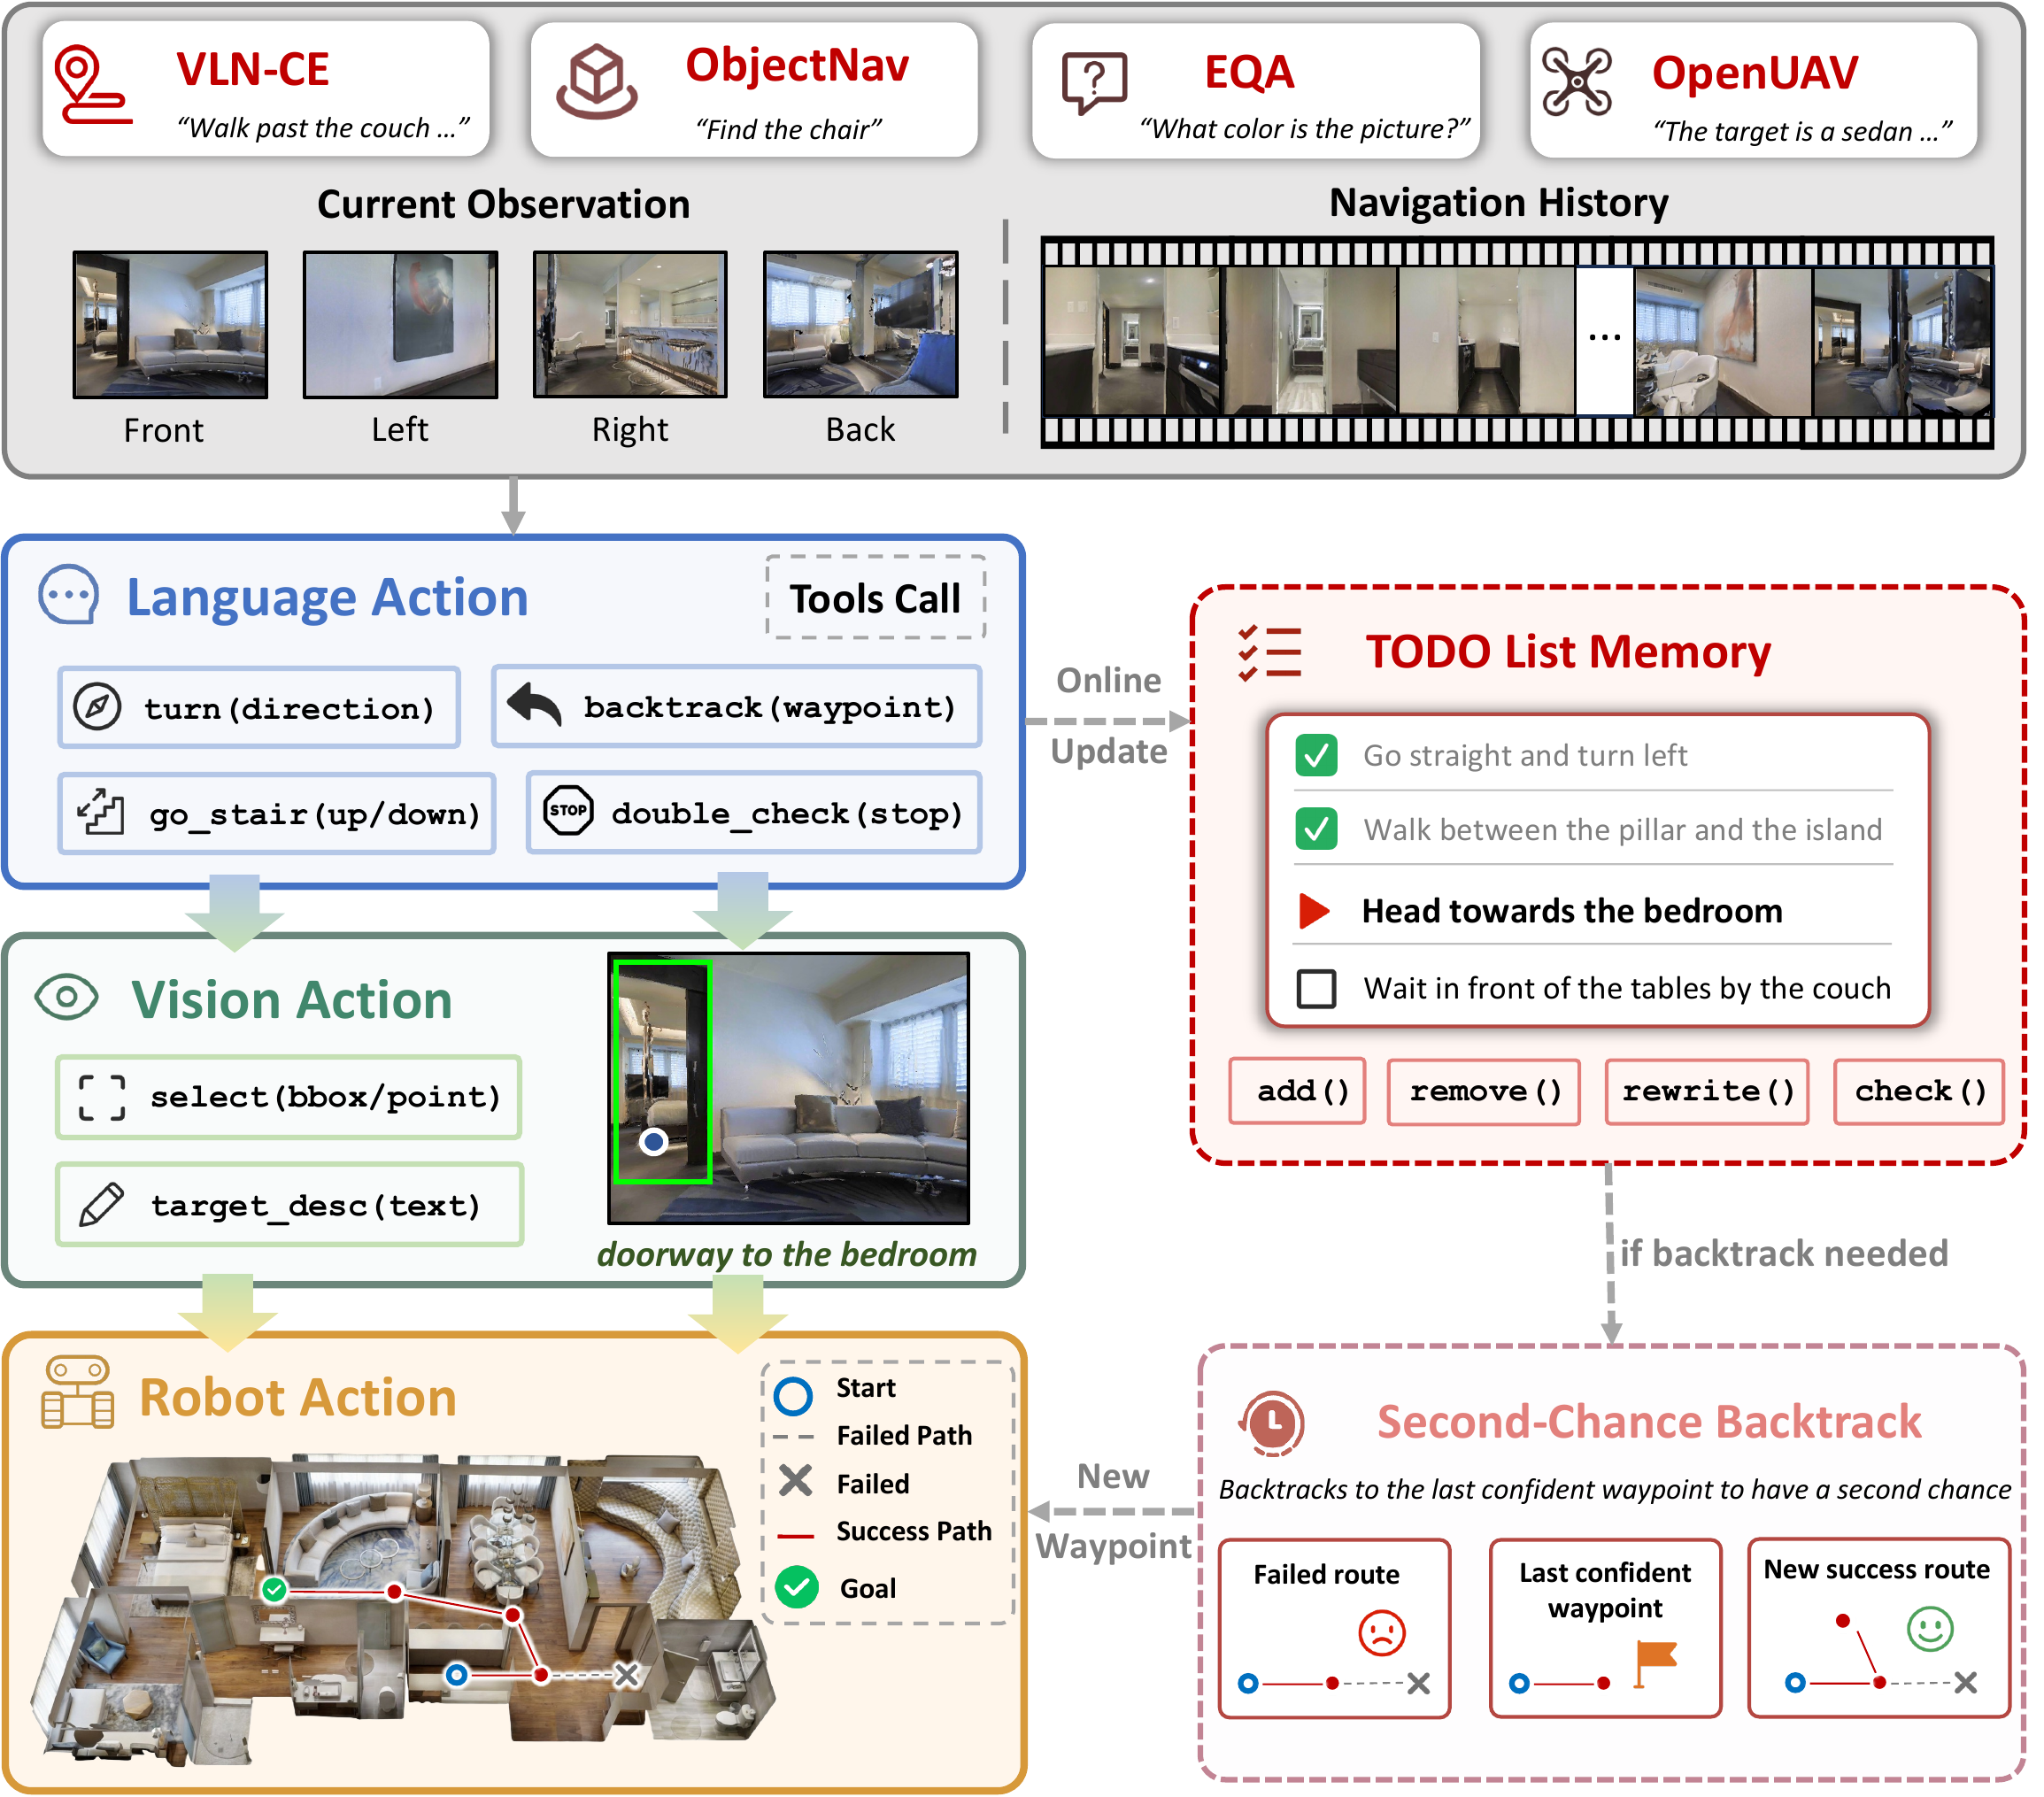
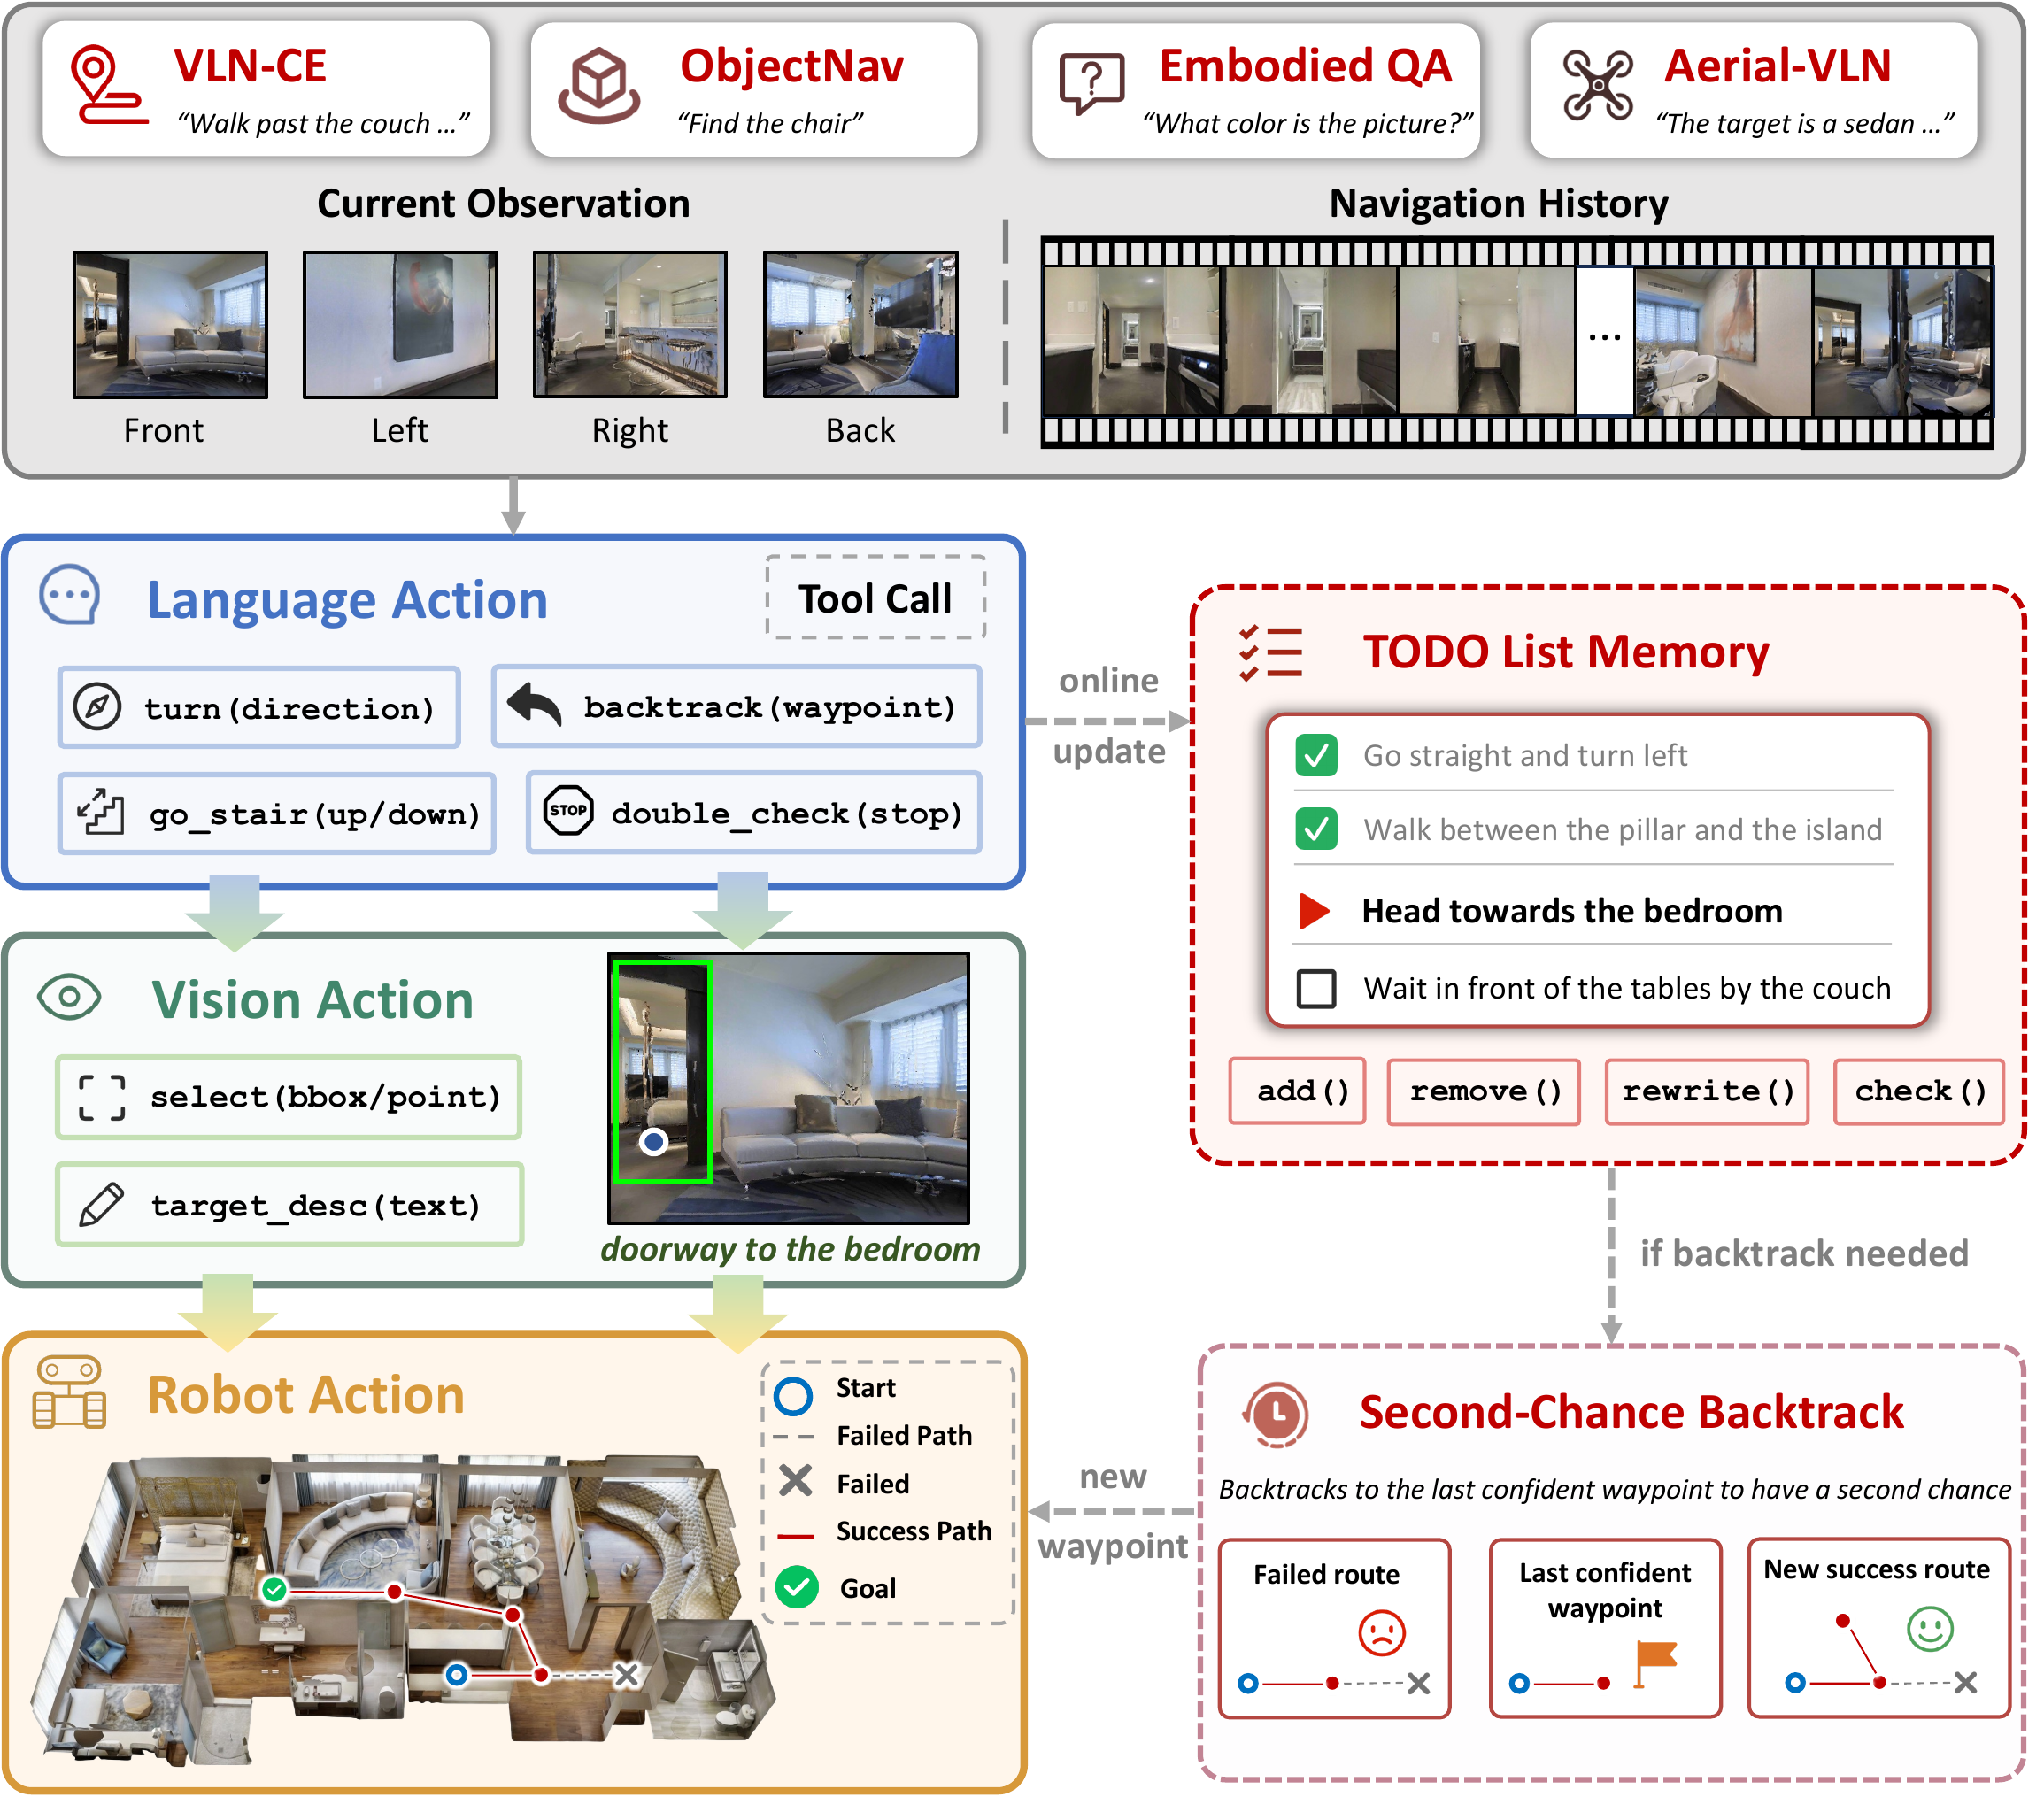
更新了图片和结果

diff --git a/src/components/sections/Table.vue b/src/components/sections/Table.vue
@@ -38,7 +38,7 @@ const tabs = [
             </tr>
           </thead>
           <tbody>
-            <tr class="section-row"><td colspan="9">Training Navigation Foundation Models</td></tr>
+            <tr class="section-row"><td colspan="9">Supervised Learning (Training Method)</td></tr>
             <tr><td class="method">NaVid</td><td>5.47</td><td>49.1</td><td>37.4</td><td>35.9</td><td>8.41</td><td>34.5</td><td>23.8</td><td>—</td></tr>
             <tr><td class="method">Uni-NaVid</td><td>5.58</td><td>53.3</td><td>47.0</td><td>42.7</td><td>6.24</td><td>48.7</td><td>40.9</td><td>—</td></tr>
             <tr><td class="method">NaVILA</td><td>5.22</td><td>62.5</td><td>54.0</td><td>49.0</td><td>6.77</td><td>49.3</td><td>44.0</td><td>58.8</td></tr>
@@ -48,6 +48,7 @@ const tabs = [
             <tr><td class="method">OmniNav</td><td>3.74</td><td>74.6</td><td>69.5</td><td>66.1</td><td>3.77</td><td>73.6</td><td>62.0</td><td>—</td></tr>
             <tr><td class="method">InternVLA-N1</td><td>4.83</td><td>63.3</td><td>58.2</td><td>54.0</td><td>5.91</td><td>53.5</td><td>46.1</td><td>65.3</td></tr>
             <tr><td class="method">ABot-N0</td><td>3.78</td><td>70.8</td><td>66.4</td><td>63.9</td><td>3.83</td><td>69.3</td><td>60.0</td><td>—</td></tr>
+            <tr><td class="method">SPAN-Nav</td><td>4.07</td><td>75.3</td><td>66.3</td><td>59.3</td><td>4.20</td><td>69.7</td><td>60.1</td><td>67.9</td></tr>
             <tr class="section-row zeroshot"><td colspan="9">Zero-Shot (Training-Free)</td></tr>
             <tr><td class="method">InstructNav</td><td>6.89</td><td>47.0</td><td>31.0</td><td>24.0</td><td>—</td><td>—</td><td>—</td><td>—</td></tr>
             <tr><td class="method">Open-Nav</td><td>6.70</td><td>23.0</td><td>19.0</td><td>16.1</td><td>—</td><td>—</td><td>—</td><td>—</td></tr>
@@ -79,7 +80,7 @@ const tabs = [
             </tr>
           </thead>
           <tbody>
-            <tr class="section-row"><td colspan="13">Trained / Supervised Baselines (UM Split)</td></tr>
+            <tr class="section-row"><td colspan="13">Supervised Learning (Training Method)</td></tr>
             <tr><td class="method">Random Action</td><td>203</td><td>0.00</td><td>0.00</td><td>0.00</td><td>158</td><td>0.00</td><td>0.00</td><td>0.00</td><td>266</td><td>0.00</td><td>0.00</td><td>0.00</td></tr>
             <tr><td class="method">Fixed Action</td><td>180</td><td>2.61</td><td>0.52</td><td>0.39</td><td>133</td><td>4.28</td><td>0.89</td><td>0.67</td><td>248</td><td>0.25</td><td>0.00</td><td>0.00</td></tr>
             <tr><td class="method">CMA</td><td>142</td><td>10.0</td><td>2.30</td><td>2.16</td><td>102</td><td>14.3</td><td>3.57</td><td>3.33</td><td>197</td><td>4.03</td><td>0.50</td><td>0.50</td></tr>
@@ -111,21 +112,25 @@ const tabs = [
             </tr>
           </thead>
           <tbody>
-            <tr class="section-row"><td colspan="6">Training Navigation Foundation Models</td></tr>
-            <tr><td class="method">DD-PPO + ObjNet-RL</td><td>55.1</td><td>26.3</td><td>—</td><td>—</td><td>—</td></tr>
-            <tr><td class="method">DAgRL+OD</td><td>—</td><td>—</td><td>37.1</td><td>19.8</td><td>—</td></tr>
-            <tr><td class="method">Uni-NaVid</td><td>61.0</td><td>30.8</td><td>39.5</td><td>19.8</td><td>47.3</td></tr>
-            <tr><td class="method">NavFoM</td><td>68.3</td><td>37.1</td><td>45.2</td><td>31.9</td><td>—</td></tr>
+            <tr class="section-row"><td colspan="6">Supervised Learning (Training Method)</td></tr>
+            <tr><td class="method">EQA(w/GT)</td><td>—</td><td>—</td><td>—</td><td>—</td><td>46.0</td></tr>
+            <tr><td class="method">DD-PPO</td><td>27.9</td><td>14.2</td><td>—</td><td>—</td><td>—</td></tr>
+            <tr><td class="method">Habitat-Web</td><td>57.6</td><td>23.8</td><td>—</td><td>—</td><td>—</td></tr>
+            <tr><td class="method">PIRLNav</td><td>70.4</td><td>34.1</td><td>—</td><td>—</td><td>—</td></tr>
+            <tr><td class="method">OVRL-v2</td><td>64.7</td><td>28.1</td><td>—</td><td>—</td><td>—</td></tr>
+            <tr><td class="method">NaviLLM</td><td>—</td><td>—</td><td>—</td><td>—</td><td>44.5</td></tr>
+            <tr><td class="method">DAgRL+OD</td><td>—</td><td>—</td><td>37.1</td><td>19.9</td><td>—</td></tr>
+            <tr><td class="method">Uni-NaVid</td><td>73.7</td><td>37.1</td><td>39.5</td><td>19.8</td><td>47.3</td></tr>
+            <tr><td class="method">NavFoM</td><td>—</td><td>—</td><td>43.6</td><td>31.3</td><td>—</td></tr>
+            <tr><td class="method">FiLM-Nav</td><td>77.0</td><td>41.3</td><td>40.8</td><td>24.4</td><td>—</td></tr>
             <tr><td class="method">OmniNav</td><td>—</td><td>—</td><td>59.2</td><td>33.2</td><td>—</td></tr>
             <tr><td class="method">ABot-N0</td><td>—</td><td>—</td><td>54.0</td><td>30.5</td><td>—</td></tr>
             <tr class="section-row zeroshot"><td colspan="6">Zero-Shot (Training-Free)</td></tr>
-            <tr><td class="method">L3MVN</td><td>36.3</td><td>15.7</td><td>—</td><td>—</td><td>—</td></tr>
-            <tr><td class="method">Frontier + LLM QA</td><td>—</td><td>—</td><td>—</td><td>—</td><td>42.0</td></tr>
-            <tr><td class="method">VLFM</td><td>52.5</td><td>30.4</td><td class="second">35.2</td><td class="second">19.6</td><td>—</td></tr>
+            <tr><td class="method">L3MVN</td><td>54.2</td><td>25.5</td><td>—</td><td>—</td><td>—</td></tr>
+            <tr><td class="method">VLFM</td><td>62.6</td><td>31.0</td><td class="second">38.5</td><td class="second">22.2</td><td>—</td></tr>
             <tr><td class="method">OpenFMNav</td><td>54.9</td><td>24.4</td><td>—</td><td>—</td><td>—</td></tr>
-            <tr><td class="method">Explore-til-confident</td><td>—</td><td>—</td><td>—</td><td>—</td><td class="second">54.0</td></tr>
             <tr><td class="method">InstructNav</td><td>58.0</td><td>20.9</td><td>—</td><td>—</td><td>—</td></tr>
-            <tr><td class="method">SG-Nav</td><td>49.6</td><td>25.5</td><td>—</td><td>—</td><td>—</td></tr>
+            <tr><td class="method">SG-Nav</td><td>54.0</td><td>24.9</td><td>—</td><td>—</td><td>—</td></tr>
             <tr><td class="method">ApexNav</td><td class="second">76.2</td><td>38.0</td><td>—</td><td>—</td><td>—</td></tr>
             <tr><td class="method">DSCD-Nav</td><td>73.0</td><td class="second">38.7</td><td>—</td><td>—</td><td>—</td></tr>
             <tr><td class="method">ReMemNav</td><td>67.8</td><td>36.6</td><td>—</td><td>—</td><td>—</td></tr>

diff --git a/src/components/sections/Video.vue b/src/components/sections/Video.vue
@@ -12,16 +12,16 @@ const fixedVideos = [
 
 // --- Filterable demo data ---
 const robots = [
-  { label: 'G1',    value: 'G1' },
-  { label: 'GO1',   value: 'GO1' },
-  { label: 'Aloha', value: 'Aloha' },
-  { label: 'UAV',   value: 'UAV' },
+  { label: 'Unitree G1',        value: 'G1' },
+  { label: 'Unitree Go1',       value: 'GO1' },
+  { label: 'Agilex Cobot Magic', value: 'Aloha' },
+  { label: 'UAV',               value: 'UAV' },
 ]
 
 const tasks = [
-  { label: 'VLN',       value: 'vln' },
-  { label: 'ObjectNav', value: 'objnav' },
-  { label: 'EQA',       value: 'eqa' },
+  { label: 'VLN',         value: 'vln' },
+  { label: 'ObjectNav',   value: 'objnav' },
+  { label: 'Embodied QA', value: 'eqa' },
 ]
 
 const scenes = [
@@ -63,7 +63,7 @@ const currentLabel = computed(() => {
   const robotLabel = robots.find(r => r.value === selectedRobot.value)?.label
   const sceneLabel = scenes.find(s => s.value === selectedScene.value)?.label
   const taskLabel  = tasks.find(t => t.value === selectedTask.value)?.label
-  return `${robotLabel} · ${sceneLabel} · ${taskLabel} · ${matched.value.target}`
+  return `${robotLabel} · ${sceneLabel} · ${taskLabel}`
 })
 </script>
 